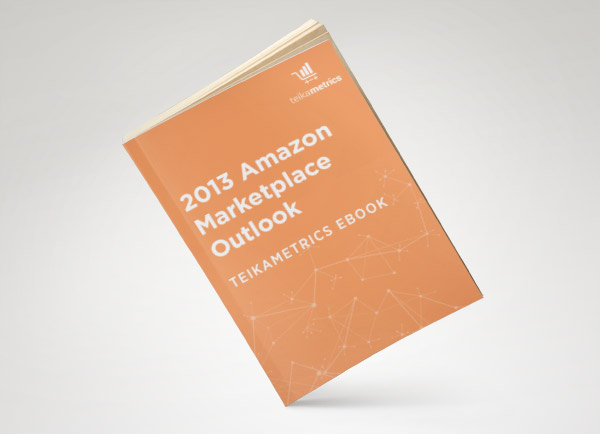
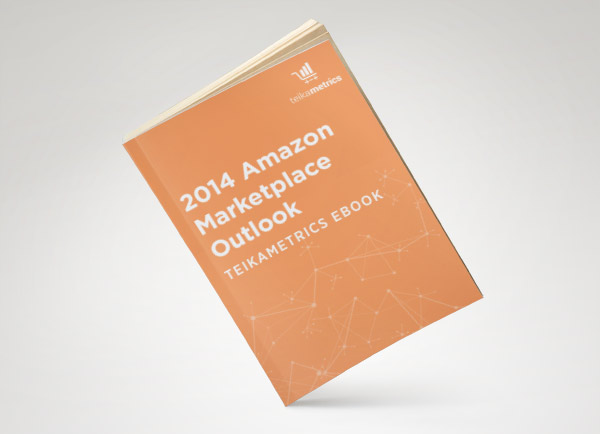
Request demo changes

Changed region(s): [[0.36, 0.4194, 0.66, 0.659], [0.36, 0.2696, 0.57, 0.4493]]

diff --git a/barrierstoentry.html b/barrierstoentry.html
@@ -24,23 +24,23 @@
 
 <body class="responsive">
 
-
-  <section id="main_header_container">
-
+<!-- header -->
+  <section id="squeeze_container">
     <div class="container">
-
-          <div class="col-lg-12 text-center"> 
-            
-            <!-- logo -->
-            
-            <div class="logo-container" id="logo-squeeze-page" ><img src="images/tm/teikametrics.png"></div>
-
+      <div class="col-lg-12 text-left squeeze-nav">
+        <a class="uppercase" href="ecommerce-resources.html"><i class="icon-arrow-left5"></i> Ecommerce Resources</a>
       </div>
     </div>
-
   </section>
-  
-  
+  <section>
+    <div class="container">
+      <div lass="col-lg-12 text-center">
+          <!-- logo -->
+          <div class="logo-container text-center" id="logo-squeeze-page" ><img src="images/tm/teikametrics.png"></div>
+        </div>
+      </div>
+    </div>
+  </section>
 <!-- End Header -->
 
 <!-- squeeze page for marketing downloads -->
@@ -50,8 +50,9 @@
     <div class="row-fluid">
       <div class="stunning_text">
         <div>
-          <h1 class="text-center">Outwit Your Competition: <br />Game Theory for Ecommerce Stores</h1>
-          <h4><span>free ebook</span></h4>
+          <h4><span>Free Whitepaper</span></h4>
+          <h1 class="text-center">Shutout the Competition:<br />Barriers to Entry in Ecommerce</h1>
+          
         </div>
       </div>
       <!-- ebook/whitepaper summary -->
@@ -59,32 +60,31 @@
 
         <!-- resource cover image -->
         <div class="pull-right col-lg-6 col-md-6">
-          <img src="images/backcover.jpg" class="align-right">
+          <img src="images/covers/barrierstoentry.jpg" class="align-right">
         </div>
+        <P>What prevents a company from competing with you? How do you overcome these obstacles to break into new fields -- or put up walls to shutout your competition?</p>
+        
+        <p><strong>Barriers to entry</strong> are obstacles for businesses to enter a market. Barriers to entry can make it harder for retailers to sell certain types of products or hinder their trading strategies. By building a catalog of products that have barriers to entry can prevent other retailers from selling the same products - resulting in lasting, sustaining business model.</p>
 
-        <P>As an ecommerce retailer, you're never operating as an island. Every decision you make - from lowering prices to investing in inventory - has implications for the rest of the industry.</p>
-
-        <p>An understanding of core economic principles can help you take control of your business's strategy, so you're <strong>acting strategically, rather than merely reacting to competitors.</strong></p<
+        <p>An understanding of core economic principles can help you take control of your business's strategy, so you're <strong>acting strategically,</strong> rather than merely reacting to competitors.</p>
 
         <P>When you download this whitepaper, you'll learn:</p>
 
         <ul class="styled-list style2">
-          <li><i class="icon-arrow-right8"></i>What's <strong>really</strong> going on during a price-war</li>
-          <li><i class="icon-arrow-right8"></i><strong>3 crucial rules</strong> when setting your repricing logic</li>
-          <li><i class="icon-arrow-right8"></i>How to out-compete the competition with <strong>stategic inventory investments</strong></li>
-          <li><i class="icon-arrow-right8"></i>The 5 most common pitfalls ecommerce retailers make when dealing predatory pricing</li>
+          <li><i class="icon-arrow-right8"></i>What barriers to entry exist for Amazon retailers</li>
+          <li><i class="icon-arrow-right8"></i>Examples of products and strategies that have higher barriers to entry</li>
+          <li><i class="icon-arrow-right8"></i>3 strategies for taking advantage of your current product catalog</li>
+          
         </ul>
 
-        <p><strong>Game Theory</strong> is the analysis of strategic decisions and reactions from competitors. For e-commerce retailers it helps explain the outcome of many competitive scenarios including price-wars, repricing logic, and strategic inventory investments.</p>
 
-
-        <P>Whether you're looking to gain strategic insight or specific tactics, our whitepaper will ensure you're keeping the larger competitive picture in mind. </p>
+        
 
         
       </div>
       <!-- lead gen form -->
       <div class="col-lg-4 col-md-4 highlight-box">
-        <h3 class="text-center"><i class="icon-arrow-down2"></i>Download the Ebook</h3>
+        <h3 class="text-center"><i class="icon-arrow-down2"></i>Download the Whitepaper</h3>
         <div class="teika" id="teika-f2370-p20-o1">
           <form action="#" method="post" class="teika-form" novalidate>
             <div style="display: none;">
@@ -96,25 +96,29 @@
             <div>
               <div class="">
                 <div class="">
+                  <label>Name:</label>
                   <p> <span class="teika-form-control-wrap your-name"> 
-                    <input type="text" name="your-name"  size="40" class="teika-form-control teika-text teika-validates-as-required" aria-required="true" value="First Name" />
+                    <input type="text" name="your-name"  size="40" class="teika-form-control teika-text teika-validates-as-required" aria-required="true"  />
                     </span> </p>
                 </div>
                 <div class="">
+                  <label>Phone:</label>
                   <p> <span class="teika-form-control-wrap your-last-name"> 
-                    <input type="text" name="your-last-name"  size="40" class="teika-form-control teika-text teika-validates-as-required" aria-required="true" value="Phone" />
+                    <input type="text" name="your-last-name"  size="40" class="teika-form-control teika-text teika-validates-as-required" aria-required="true" />
                     </span> </p>
                 </div>
               </div>
             </div>
             <div>
+              <label>Email</label>
               <p> <span class="teika-form-control-wrap your-email"> 
-                <input type="text" name="your-email"  size="40" class="teika-form-control teika-text teika-email teika-validates-as-required teika-validates-as-email" aria-required="true" value="Email" />
+                <input type="text" name="your-email"  size="40" class="teika-form-control teika-text teika-email teika-validates-as-required teika-validates-as-email" aria-required="true"  />
                 </span> </p>
             </div>
             <div>
+              <label>Company</label>
               <p> <span class="teika-form-control-wrap your-company"> 
-                <input type="text" name="your-company"  size="40" class="teika-form-control teika-text teika-email teika-validates-as-required teika-validates-as-email" aria-required="true" value="Company" />
+                <input type="text" name="your-company"  size="40" class="teika-form-control teika-text teika-email teika-validates-as-required teika-validates-as-email" aria-required="true" />
                 </span> </p>
             </div>
             <p><input type="checkbox" value="newsletter">  Get the ecommerce insights newsletter</p>

diff --git a/gametheory.html b/gametheory.html
@@ -25,22 +25,23 @@
 <body class="responsive">
 
 
-  <section id="main_header_container">
-
+  <!-- header -->
+  <section id="squeeze_container">
     <div class="container">
-
-          <div class="col-lg-12 text-center"> 
-            
-            <!-- logo -->
-            
-            <div class="logo-container" id="logo-squeeze-page" ><img src="images/tm/teikametrics.png"></div>
-
+      <div class="col-lg-12 text-left squeeze-nav">
+        <a class="uppercase" href="ecommerce-resources.html"><i class="icon-arrow-left5"></i> Ecommerce Resources</a>
       </div>
     </div>
-
   </section>
-  
-  
+  <section>
+    <div class="container">
+      <div lass="col-lg-12 text-center">
+          <!-- logo -->
+          <div class="logo-container text-center" id="logo-squeeze-page" ><img src="images/tm/teikametrics.png"></div>
+        </div>
+      </div>
+    </div>
+  </section>
 <!-- End Header -->
 
 <!-- squeeze page for marketing downloads -->
@@ -50,8 +51,10 @@
     <div class="row-fluid">
       <div class="stunning_text">
         <div>
+
+          <h4 class="title1"><span>free whitepaper</span></h4>
           <h1 class="text-center">Outwit Your Competition: <br />Game Theory for Ecommerce Stores</h1>
-          <h4><span>free ebook</span></h4>
+          
         </div>
       </div>
       <!-- ebook/whitepaper summary -->
@@ -59,7 +62,7 @@
 
         <!-- resource cover image -->
         <div class="pull-right col-lg-6 col-md-6">
-          <img src="images/backcover.jpg" class="align-right">
+          <img src="images/covers/gametheory.jpg" class="align-right">
         </div>
 
         <P>As an ecommerce retailer, you're never operating as an island. Every decision you make - from lowering prices to investing in inventory - has implications for the rest of the industry.</p>
@@ -80,6 +83,8 @@
 
         <P>Whether you're looking to gain strategic insight or specific tactics, our whitepaper will ensure you're keeping the larger competitive picture in mind. </p>
 
+       
+
         
       </div>
       <!-- lead gen form -->
@@ -96,25 +101,29 @@
             <div>
               <div class="">
                 <div class="">
+                  <label>Name:</label>
                   <p> <span class="teika-form-control-wrap your-name"> 
-                    <input type="text" name="your-name"  size="40" class="teika-form-control teika-text teika-validates-as-required" aria-required="true" value="First Name" />
+                    <input type="text" name="your-name"  size="40" class="teika-form-control teika-text teika-validates-as-required" aria-required="true"  />
                     </span> </p>
                 </div>
                 <div class="">
+                  <label>Phone:</label>
                   <p> <span class="teika-form-control-wrap your-last-name"> 
-                    <input type="text" name="your-last-name"  size="40" class="teika-form-control teika-text teika-validates-as-required" aria-required="true" value="Phone" />
+                    <input type="text" name="your-last-name"  size="40" class="teika-form-control teika-text teika-validates-as-required" aria-required="true" />
                     </span> </p>
                 </div>
               </div>
             </div>
             <div>
+              <label>Email</label>
               <p> <span class="teika-form-control-wrap your-email"> 
-                <input type="text" name="your-email"  size="40" class="teika-form-control teika-text teika-email teika-validates-as-required teika-validates-as-email" aria-required="true" value="Email" />
+                <input type="text" name="your-email"  size="40" class="teika-form-control teika-text teika-email teika-validates-as-required teika-validates-as-email" aria-required="true"  />
                 </span> </p>
             </div>
             <div>
+              <label>Company</label>
               <p> <span class="teika-form-control-wrap your-company"> 
-                <input type="text" name="your-company"  size="40" class="teika-form-control teika-text teika-email teika-validates-as-required teika-validates-as-email" aria-required="true" value="Company" />
+                <input type="text" name="your-company"  size="40" class="teika-form-control teika-text teika-email teika-validates-as-required teika-validates-as-email" aria-required="true" />
                 </span> </p>
             </div>
             <p><input type="checkbox" value="newsletter">  Get the ecommerce insights newsletter</p>

diff --git a/opportunitycost.html b/opportunitycost.html
@@ -25,22 +25,23 @@
 <body class="responsive">
 
 
-  <section id="main_header_container">
-
+  <!-- header -->
+  <section id="squeeze_container">
     <div class="container">
-
-          <div class="col-lg-12 text-center"> 
-            
-            <!-- logo -->
-            
-            <div class="logo-container" id="logo-squeeze-page" ><img src="images/tm/teikametrics.png"></div>
-
+      <div class="col-lg-12 text-left squeeze-nav">
+        <a class="uppercase" href="ecommerce-resources.html"><i class="icon-arrow-left5"></i> Ecommerce Resources</a>
       </div>
     </div>
-
   </section>
-  
-  
+  <section>
+    <div class="container">
+      <div lass="col-lg-12 text-center">
+          <!-- logo -->
+          <div class="logo-container text-center" id="logo-squeeze-page" ><img src="images/tm/teikametrics.png"></div>
+        </div>
+      </div>
+    </div>
+  </section>
 <!-- End Header -->
 
 <!-- squeeze page for marketing downloads -->
@@ -50,8 +51,8 @@
     <div class="row-fluid">
       <div class="stunning_text">
         <div>
-          <h1 class="text-center">Outwit Your Competition: <br />Game Theory for Ecommerce Stores</h1>
-          <h4><span>free ebook</span></h4>
+          <h1 class="text-center">Hidden Costs: Opportunity Cost in Ecommerce</h1>
+          <h4><span>Free Whitepaper</span></h4>
         </div>
       </div>
       <!-- ebook/whitepaper summary -->
@@ -59,26 +60,25 @@
 
         <!-- resource cover image -->
         <div class="pull-right col-lg-6 col-md-6">
-          <img src="images/backcover.jpg" class="align-right">
+          <img src="images/covers/opportunitycost.jpg" class="align-right">
         </div>
 
-        <P>As an ecommerce retailer, you're never operating as an island. Every decision you make - from lowering prices to investing in inventory - has implications for the rest of the industry.</p>
+        <P>When you're making a decision to invest, you're also making the decision to <strong>not</strong> invest in another option. What implications does this have for you?</p>
 
-        <p>An understanding of core economic principles can help you take control of your business's strategy, so you're <strong>acting strategically, rather than merely reacting to competitors.</strong></p<
+        <p>Opportunity Cost is the true cost of a business decision. Every inventory investment or optimization effort costs money but the concept of Opportunity Cost also evaluates the loss of economic benefits that your business could have received if it had not made the investment decision.</p>
+
+        <p>Analyzing inventory data to evaluate Opportunity Cost can help you formulate a more successful inventory investment strategy.</p>
 
         <P>When you download this whitepaper, you'll learn:</p>
 
         <ul class="styled-list style2">
-          <li><i class="icon-arrow-right8"></i>What's <strong>really</strong> going on during a price-war</li>
-          <li><i class="icon-arrow-right8"></i><strong>3 crucial rules</strong> when setting your repricing logic</li>
+          <li><i class="icon-arrow-right8"></i>Evaluating the "true cost" of a business opportunity</li>
+          <li><i class="icon-arrow-right8"></i></li>
           <li><i class="icon-arrow-right8"></i>How to out-compete the competition with <strong>stategic inventory investments</strong></li>
           <li><i class="icon-arrow-right8"></i>The 5 most common pitfalls ecommerce retailers make when dealing predatory pricing</li>
         </ul>
 
-        <p><strong>Game Theory</strong> is the analysis of strategic decisions and reactions from competitors. For e-commerce retailers it helps explain the outcome of many competitive scenarios including price-wars, repricing logic, and strategic inventory investments.</p>
-
-
-        <P>Whether you're looking to gain strategic insight or specific tactics, our whitepaper will ensure you're keeping the larger competitive picture in mind. </p>
+        
 
         
       </div>

diff --git a/request-demo.html b/request-demo.html
@@ -59,16 +59,20 @@
       <div class="col-sm-6 col-sm-offset-3 col-xs-12">
         <form role="form" class="demo-form">
           <div class="form-group"> 
-            <input type="text" class="form-control" id="name" placeholder="Full Name">
+            <label>Full name</label>
+            <input type="text" class="form-control" id="name" >
           </div>
           <div class="form-group"> 
-            <input type="email" class="form-control" id="email" placeholder="Email">
+            <label>Email</label>
+            <input type="email" class="form-control" id="email">
+          </div>
+          <div class="form-group">
+          <label>Phone Number</label> 
+            <input type="text" class="form-control" id="phone">
           </div>
           <div class="form-group"> 
-            <input type="text" class="form-control" id="phone" placeholder="Phone Number">
-          </div>
-          <div class="form-group"> 
-            <input type="text" class="form-control" id="company" placeholder="Company">
+            <label>Company</label>
+            <input type="text" class="form-control" id="company">
           </div>
           
  

diff --git a/css/main.css b/css/main.css
@@ -2789,4 +2789,31 @@ margin-bottom: 20px;
 	padding-right:20px;
 }
 
+#squeeze_container  {
+	background: #f6f8f8;
+	padding:10px;
+	border-bottom:1px solid #ccc;
+}
 
+.squeeze-header {
+	background: #f6f8f8;
+	padding:10px;
+	border-bottom:1px solid #ccc;
+}
+
+.squeeze-nav a {
+
+	font-size: 12px;
+	font-weight: normal;
+	height: 62px;
+	letter-spacing: 1px;
+	font-weight: 500;
+	text-transform: uppercase;
+	padding: 0px;
+	letter-spacing: .08em;
+	color: #afafaf;
+	font-family: 'Gotham SSm A', 'Gotham SSm B', "Lucida Sans Unicode", "Lucida Grande", sans-serif;
+	border-top: 2px solid transparent;
+	transition: color 0.3s ease;
+
+}

diff --git a/ecommerce-resources.html b/ecommerce-resources.html
@@ -165,7 +165,7 @@
                   </div>
                 </div>
                 <div class="info">
-                  <h4><a href="#">2013 Amazon Marketplace Outlook</a></h4>
+                  <h4><a href="#">2014 Amazon Marketplace Outlook</a></h4>
                   <h5><a href="#" rel="tag">eBook</a></h5>
                 </div>
               </div>

diff --git a/contact_us.html b/contact_us.html
@@ -63,7 +63,6 @@
 <!-- End Mobile Navigation -->
 
 
-#request-demo
 <header id="header">
   <section id="main_header_container">
     <div id="top_bar" style="display:none">

diff --git a/amazon-fba.html b/amazon-fba.html
@@ -54,8 +54,6 @@
 
 <!-- End Mobile Navigation -->
 
-
-#request-demo
 <header id="header">
   <section id="main_header_container">
     <div id="main_navigation">
